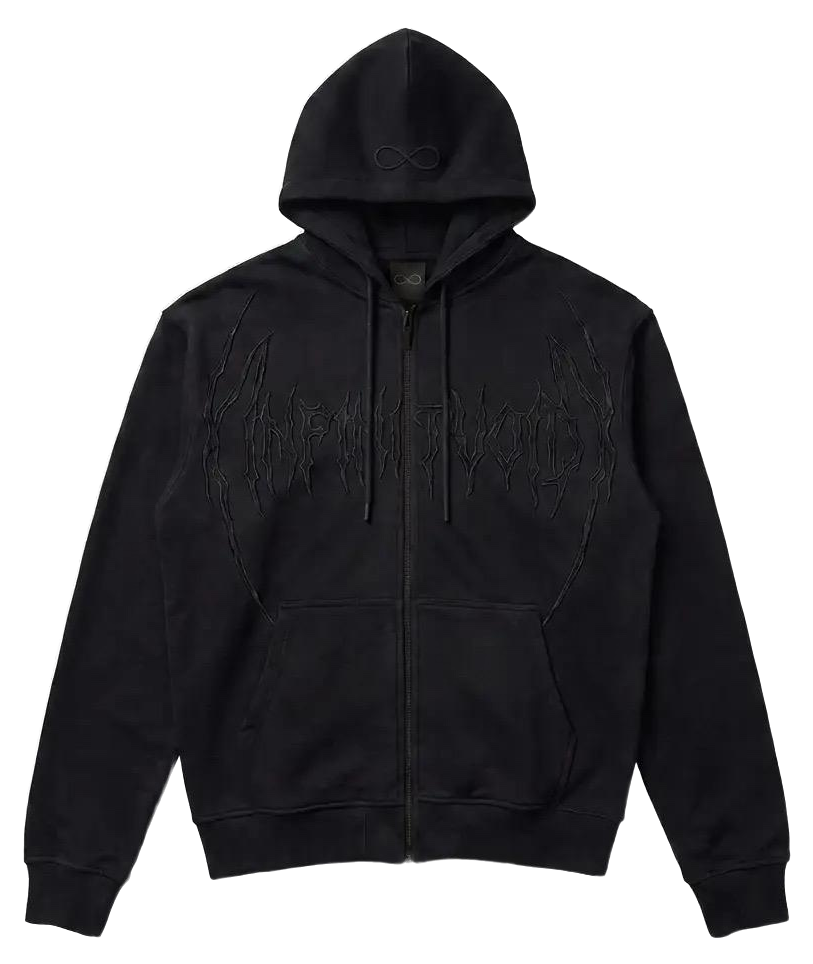
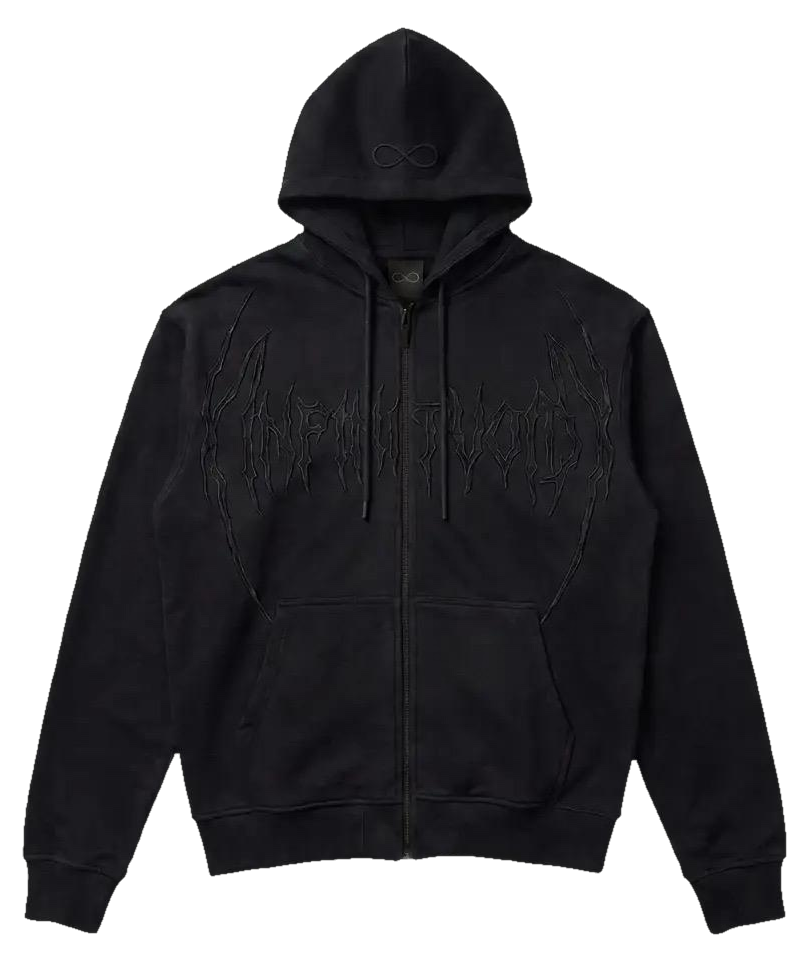
Fix white halo/fringe around the cutout hoodie photos
The whiteness-threshold cutout was leaving semi-transparent edge
pixels that still carried the original near-white background color.
Any downstream resize or re-encode (next/image, WebP conversion)
could blend that leftover white data back into view as a fringe
around the whole silhouette, especially visible on retina screens.

Fixed by choking the alpha mask a couple px inward to strip the
JPEG-ringing contaminated edge entirely, then premultiplying color
into alpha so no light data survives near full transparency. Also
toned down ProductCard's ambient glow (hover-only now) and shrank
the drop-shadow so the garment reads as crisp and grounded instead
of hazy.

diff --git a/components/ProductCard.tsx b/components/ProductCard.tsx
@@ -78,26 +78,27 @@ export default function ProductCard({ front, back }: ProductCardProps) {
                 className="absolute inset-0"
                 style={{ backfaceVisibility: "hidden", transform: i === 1 ? "rotateY(180deg)" : undefined }}
               >
-                {/* ambient cursor-follow glow, behind the garment */}
+                {/* ambient cursor-follow glow, behind the garment, hover-only */}
                 <motion.div
                   aria-hidden
-                  className="pointer-events-none absolute inset-0 opacity-60 transition-opacity duration-500 group-hover:opacity-100"
+                  className="pointer-events-none absolute inset-0 opacity-0 transition-opacity duration-500 group-hover:opacity-100"
                   style={{ background: glowBackground }}
                 />
 
-                {/* static spotlight pooling under the hoodie for grounding + depth */}
+                {/* thin grounding line under the hoodie, no haze */}
                 <div
                   aria-hidden
-                  className="pointer-events-none absolute inset-x-[8%] bottom-[6%] h-1/3 rounded-[50%] bg-cyan/10 blur-3xl"
+                  className="pointer-events-none absolute inset-x-[18%] bottom-[7%] h-px bg-gradient-to-r from-transparent via-white/15 to-transparent"
                 />
 
                 <Image
                   src={face.src}
                   alt={face.label}
                   fill
+                  quality={95}
                   sizes="(min-width: 1024px) 45vw, 90vw"
                   priority={i === 0}
-                  className="object-contain object-bottom drop-shadow-[0_30px_60px_rgba(0,0,0,0.65)] transition-transform duration-500 group-hover:scale-[1.03]"
+                  className="object-contain object-bottom drop-shadow-[0_12px_18px_rgba(0,0,0,0.55)] transition-transform duration-500 group-hover:scale-[1.03]"
                 />
               </div>
             ))}
